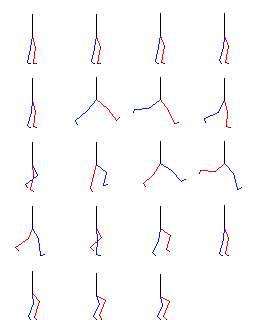
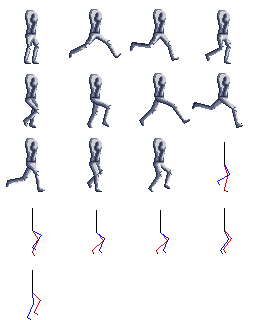
Adjusted animation system, added basic mounting system for limbs, updated character sprite sheet

diff --git a/Fredrick/src/Kinematics/Character.cs b/Fredrick/src/Kinematics/Character.cs
@@ -31,6 +31,7 @@ namespace Fredrick.src
 		protected float _moveCommand;//Horizontal movement command
 		protected bool _jumpCommand;//Jumping command
 
+		private Vector2 _prevAcceleration;
 		private float _groundFriction;
 		private float _airFriction;
 		private float _movingFriction;
@@ -40,7 +41,6 @@ namespace Fredrick.src
 		private bool _grounded;
 		private bool _prevGrounded;
 		private double _fallVelocity;
-
 
 		private double _jumpDuration;
 		private double _jumpClock;
@@ -105,7 +105,7 @@ namespace Fredrick.src
 			_jumpSpeed = 14.0f;
 			_fallAcceleration = -40.0f;
 			_terminalVelocity = -30.0f;
-			_maxJumps = 2;
+			_maxJumps = 200;
 			_jumpWait = false;
 			_jumpDelay = 0.2;//may want to remove variable?
 
@@ -115,6 +115,7 @@ namespace Fredrick.src
 
 		public void Walk(double deltaTime)
 		{
+			_prevAcceleration = _acceleration;
 			if (_grounded)
 			{
 				if (_moveCommand != 0)
@@ -180,42 +181,8 @@ namespace Fredrick.src
 				_velocity.Y = _terminalVelocity;
 		}
 
-		public override void Update(double deltaTime)
+		public void StateHandler()
 		{
-			_moveCommand = InputHandler.Instance.MoveX;
-			_jumpCommand = InputHandler.Instance.IsKeyPressed(InputHandler.Action.Jump);
-
-			if (_jumpWait)
-			{
-				_jumpTimer += deltaTime;
-				if (_jumpTimer >= _jumpDelay)
-				{
-					_jumpWait = false;
-					_jumpTimer = 0;
-				}
-			}
-
-			_jumpClock -= deltaTime;
-			_prevGrounded = _grounded;
-
-			if (_jumpTrigger.Update(_owner.Position) && !_jumpWait)
-			{
-				_grounded = true;
-				_jumpsLeft = _maxJumps;
-			}
-			else
-				_grounded = false;
-
-			if (!_grounded)
-			{
-				_fallVelocity = Velocity.Y;
-			}
-			else
-			{
-				if (_prevGrounded)//Gives a frame to check fall trauma
-					_fallVelocity = 0;
-			}
-
 			switch (_motionState)
 			{
 				case State.Standing:
@@ -262,6 +229,10 @@ namespace Fredrick.src
 								(c as Renderable).Drawable.TransitionAnim(1);
 							}
 						}
+						if (_velocity.X > 3)
+						{
+
+						}
 					}
 					break;
 				case State.Jumping:
@@ -271,7 +242,14 @@ namespace Fredrick.src
 						{
 							if (c is Renderable)
 							{
-								(c as Renderable).Drawable.TransitionAnim(2);
+								if ((c as Renderable).Drawable._currentAnim != 2)
+								{
+									(c as Renderable).Drawable.TransitionAnim(2);//Add two frames of legs extending, to be played if not turning, and two recovary frames for landing
+								}
+								if (_prevAcceleration.X * _acceleration.X < 0 || _jumpCommand)
+								{
+									(c as Renderable).Drawable.RestartAnim();
+								}
 							}
 						}
 					}
@@ -279,6 +257,45 @@ namespace Fredrick.src
 				default:
 					throw new Exception("Unrecognised state reached");
 			}
+		}
+
+		public override void Update(double deltaTime)
+		{
+			_moveCommand = InputHandler.Instance.MoveX;
+			_jumpCommand = InputHandler.Instance.IsKeyPressed(InputHandler.Action.Jump);
+
+			if (_jumpWait)
+			{
+				_jumpTimer += deltaTime;
+				if (_jumpTimer >= _jumpDelay)
+				{
+					_jumpWait = false;
+					_jumpTimer = 0;
+				}
+			}
+
+			_jumpClock -= deltaTime;
+			_prevGrounded = _grounded;
+
+			if (_jumpTrigger.Update(_owner.Position) && !_jumpWait)
+			{
+				_grounded = true;
+				_jumpsLeft = _maxJumps;
+			}
+			else
+				_grounded = false;
+
+			if (!_grounded)
+			{
+				_fallVelocity = Velocity.Y;
+			}
+			else
+			{
+				if (_prevGrounded)//Gives a frame to check fall trauma
+					_fallVelocity = 0;
+			}
+
+			StateHandler();
 
 			Walk(deltaTime);
 			ResolveMotion(deltaTime);
@@ -309,6 +326,10 @@ namespace Fredrick.src
 					if (c is Renderable)
 					{
 						(c as Renderable).Flip(_facingRight);
+					}
+					if (c is Weapon)
+					{
+						(c as Weapon).Flip(_facingRight);
 					}
 				}
 			}

diff --git a/Fredrick/src/Weapons/Weapon.cs b/Fredrick/src/Weapons/Weapon.cs
@@ -27,6 +27,8 @@ namespace Fredrick.src
 
 		protected string projectile;
 
+		protected bool _facingRight;
+
 		public Drawable ArmDrawable { get; set; }
 		public Drawable WeaponDrawable { get; set; }
 
@@ -70,6 +72,8 @@ namespace Fredrick.src
 			_projectiles = new List<Entity>();
 
 			_scale = new Vector2(1);
+
+			_facingRight = true;
 		}
 
 		public void Fire(Vector2 direction, float sin, float cos)
@@ -81,7 +85,7 @@ namespace Fredrick.src
 
 			Vector2 transformedShotSpawn = new Vector2((cos * tssx) - (sin * tssy), (sin * tssx) + (cos * tssy));
 
-			e.Position = _owner.Position + transformedShotSpawn;
+			e.Position = _owner.Position + _position + transformedShotSpawn;
 
 			Vector2 shotVelocity = direction * _shotSpeed;
 			e.GetComponent<Projectile>().Revive(shotVelocity, 2.0, true, false, 10.0f, 20.0f, 2.0f, 1.0f);
@@ -101,6 +105,23 @@ namespace Fredrick.src
 			}
 		}
 
+		public void Flip(bool faceRight)
+		{
+			//needs to be changed to account for position change
+			if (faceRight != _facingRight)
+			{
+				_facingRight = !_facingRight;
+				if (_facingRight)
+				{
+					ArmDrawable._spriteEffects = SpriteEffects.None;
+				}
+				else
+				{
+					ArmDrawable._spriteEffects = SpriteEffects.FlipVertically;
+				}
+			}
+		}
+
 		public override void Load(ContentManager content)
 		{
 			WeaponDrawable.Load(content);
@@ -114,6 +135,17 @@ namespace Fredrick.src
 
 		public override void Update(double deltaTime)
 		{
+			foreach (Component c in _owner.Components)
+			{
+				if (c.Tags.Contains("Legs"))
+				{
+					if (c is Renderable)
+					{
+						_position = (c as Renderable).Drawable._animations[(c as Renderable).Drawable._currentAnim].GetMountPoint("Arm");
+					}
+				}
+			}
+
 			Vector2 direction = InputHandler.Instance.WorldMousePosition - _owner.Position;
 			direction.Normalize();
 
@@ -165,7 +197,7 @@ namespace Fredrick.src
 		{
 			Vector2 inv = new Vector2(1, -1);
 			spriteBatch.Draw(ResourceManager.Instance.Textures[WeaponDrawable._spriteName], (_transformedWeaponPosition + _position + _owner.Position) * inv * WeaponDrawable._spriteSize, WeaponDrawable._sourceRectangle, WeaponDrawable._colour, _owner.Rotation + _rotation, WeaponDrawable._origin, _scale, WeaponDrawable._spriteEffects, WeaponDrawable._layer);
-			spriteBatch.Draw(ResourceManager.Instance.Textures[ArmDrawable._spriteName], ( _position + _owner.Position) * inv * ArmDrawable._spriteSize, ArmDrawable._sourceRectangle, ArmDrawable._colour, _owner.Rotation + _rotation, ArmDrawable._origin, _scale, ArmDrawable._spriteEffects, ArmDrawable._layer);
+			spriteBatch.Draw(ResourceManager.Instance.Textures[ArmDrawable._spriteName], (_position + _owner.Position) * inv * ArmDrawable._spriteSize, ArmDrawable._sourceRectangle, ArmDrawable._colour, _owner.Rotation + _rotation, ArmDrawable._origin, _scale, ArmDrawable._spriteEffects, ArmDrawable._layer);
 
 			foreach (Entity e in _projectiles)
 			{

diff --git a/Fredrick/src/Game1.cs b/Fredrick/src/Game1.cs
@@ -85,11 +85,31 @@ namespace Fredrick.src
 				Renderable renderable = new Renderable(entity, "Legs", "Character", new Vector2(32, 32), new Vector2(0), new Vector2(1), 64, 64, 0.3f);
 				Character character = new Character(entity);
 				AABBCollider boxCollider = new AABBCollider(entity, new Vector2(0), 1.0f, 2.0f);
-				renderable.Drawable.AddAnimation(0, 0, 5, 12, Animation.OnEnd.Loop, 0);
-				renderable.Drawable.AddAnimation(64, 64, 10, 12, Animation.OnEnd.Loop, 0);
-				renderable.Drawable.AddAnimation(192, 192, 4, 12, Animation.OnEnd.LockLastFrame, 0);
+				renderable.Drawable.AddAnimation(0, 0, 1, 12, Animation.OnEnd.Loop, 0);
+				renderable.Drawable.AddAnimation(64, 0, 10, 12, Animation.OnEnd.Loop, 0);
+				renderable.Drawable.AddAnimation(192, 128, 6, 12, Animation.OnEnd.LockLastFrame, 0);
 				renderable.Tags.Add("MotionFlip");
 				renderable.Tags.Add("Legs");
+
+				SortedDictionary<int, Vector2> aps = new SortedDictionary<int, Vector2>();
+				aps.Add(0, new Vector2(0, 0.53125f));
+				renderable.Drawable._animations[0].MountPoints.Add("Arm", aps);
+
+				SortedDictionary<int, Vector2> apr = new SortedDictionary<int, Vector2>();
+				apr.Add(0, new Vector2(0, 0.5625f));
+				apr.Add(2, new Vector2(0, 0.53125f));
+				apr.Add(5, new Vector2(0, 0.5625f));
+				apr.Add(7, new Vector2(0, 0.53125f));
+				renderable.Drawable._animations[1].MountPoints.Add("Arm", apr);
+
+				SortedDictionary<int, Vector2> apj = new SortedDictionary<int, Vector2>();
+				apj.Add(0, new Vector2(0, 0.5625f));
+				apj.Add(1, new Vector2(0, 0.5f));
+				apj.Add(2, new Vector2(0, 0.475f));
+				apj.Add(4, new Vector2(0, 0.5f));
+				apj.Add(5, new Vector2(0, 0.5625f));
+				renderable.Drawable._animations[2].MountPoints.Add("Arm", apj);
+
 				entity.Components.Add(character);
 				entity.Components.Add(renderable);
 				entity.Components.Add(boxCollider);
@@ -100,7 +120,8 @@ namespace Fredrick.src
 				Weapon weapon = new Weapon(entity, "Grenade", new Vector2(0.8f, 0), new Vector2(0.8f, 0), 0.1, 4.0f, 20.0f, 6.0f, true);
 				weapon.Position = new Vector2(0, 0.5f);
 				weapon.WeaponDrawable = new Drawable("fragNade", new Vector2(16), 32, 32, 0.2f);
-				weapon.ArmDrawable = new Drawable("tempArm", new Vector2(3, 7), 32, 32, 0.1f);
+				weapon.ArmDrawable = new Drawable("Arm", new Vector2(31, 31), 64, 64, 0.1f);
+				weapon.Tags.Add("MotionFlip");
 				entity.Components.Add(weapon);
 
 				for (int i = 0; i < 101; i++)

diff --git a/Fredrick/src/Drawing/Animation.cs b/Fredrick/src/Drawing/Animation.cs
@@ -36,6 +36,8 @@ namespace Fredrick.src
 		private OnEnd _onEnd;
 		private int _nextAnim;
 
+		private Dictionary<String, SortedDictionary<int, Vector2>> _mountPoints;
+
 		public int SpriteWidth
 		{
 			get { return _spriteWidth; }
@@ -52,6 +54,12 @@ namespace Fredrick.src
 		{
 			get { return _nextAnim; }
 			set { _nextAnim = value; }
+		}
+
+		public Dictionary<String, SortedDictionary<int, Vector2>> MountPoints
+		{
+			get { return _mountPoints; }
+			set { _mountPoints = value; }
 		}
 
 		public Animation()//Constructor shouldn't be used as there are no way to set fields currently, as animations shouldn't be dynamic
@@ -71,6 +79,8 @@ namespace Fredrick.src
 			_currentFrame = 0;
 			_frameTime = 1.0 / _framerate;
 			_nextFrame = 0;
+
+			_mountPoints = new Dictionary<string, SortedDictionary<int, Vector2>>();
 		}
 
 		public Animation(int spriteWidth, int spriteHeight, int startX, int startY, int width, int height, int frames, float framerate, OnEnd onEnd, int nextAnim)
@@ -94,6 +104,8 @@ namespace Fredrick.src
 
 			_onEnd = onEnd;
 			_nextAnim = nextAnim;
+
+			_mountPoints = new Dictionary<string, SortedDictionary<int, Vector2>>();
 		}
 
 		public Point UpdateAnimation(double deltaTime, out bool transition)
@@ -165,6 +177,24 @@ namespace Fredrick.src
 			_currentX = _startX;
 			_currentY = _startY;
 			_nextFrame = nextFrame;
+		}
+
+		public Vector2 GetMountPoint(String mount)
+		{
+			Vector2 mountpoint = new Vector2();
+			if (_mountPoints.ContainsKey(mount))
+			{
+				List<int> keys = new List<int>(_mountPoints[mount].Keys);
+				int index = 0;
+				foreach (int key in keys)
+				{
+					if (key <= _currentFrame)
+						index = key;
+				}
+				mountpoint = _mountPoints[mount][index];
+			}
+
+			return mountpoint;
 		}
 	}
 }

diff --git a/Fredrick/src/Drawing/Drawable.cs b/Fredrick/src/Drawing/Drawable.cs
@@ -76,6 +76,11 @@ namespace Fredrick.src
 			}
 		}
 
+		public void RestartAnim()
+		{
+			_animations[_currentAnim].TransitionInAnim(_animations[_currentAnim].GetNextFrame());
+		}
+
 		public void Animate(double deltaTime)
 		{
 			if (_animations.Count > 0)

diff --git a/Fredrick/src/Cameras/FollowCamera.cs b/Fredrick/src/Cameras/FollowCamera.cs
@@ -74,7 +74,7 @@ namespace Fredrick.src
 		{
 			_viewportWidth = width;
 			_viewportHeight = height;
-			_zoom = 1.0f;
+			_zoom =2.0f;
 			_rotation = 0.0f;
 			_position = Vector2.Zero;
 
